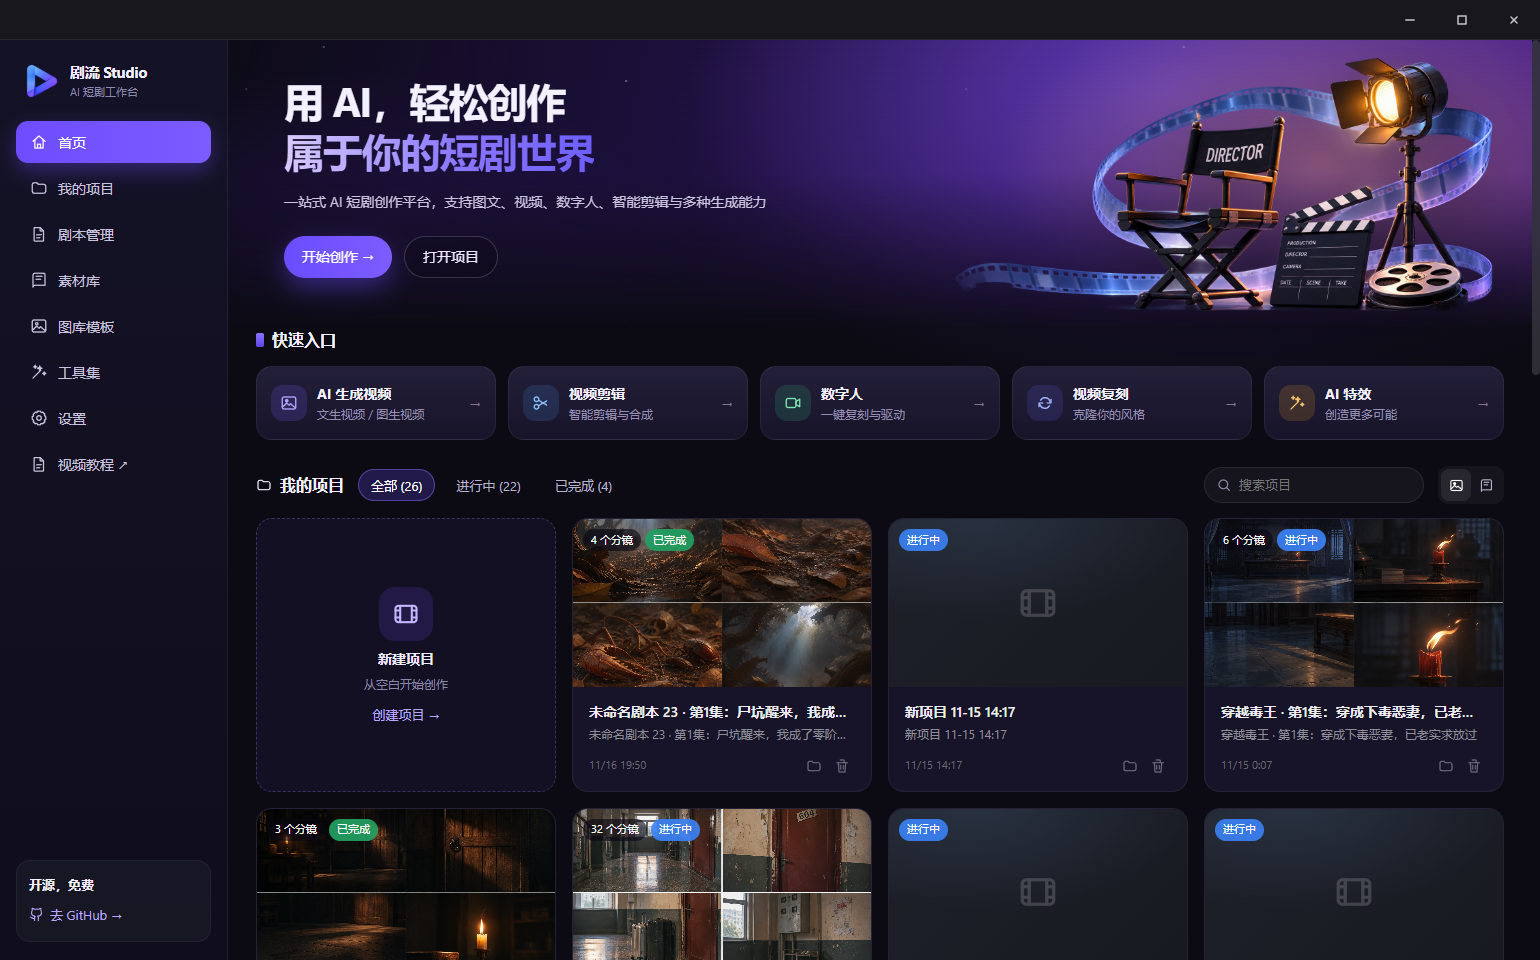
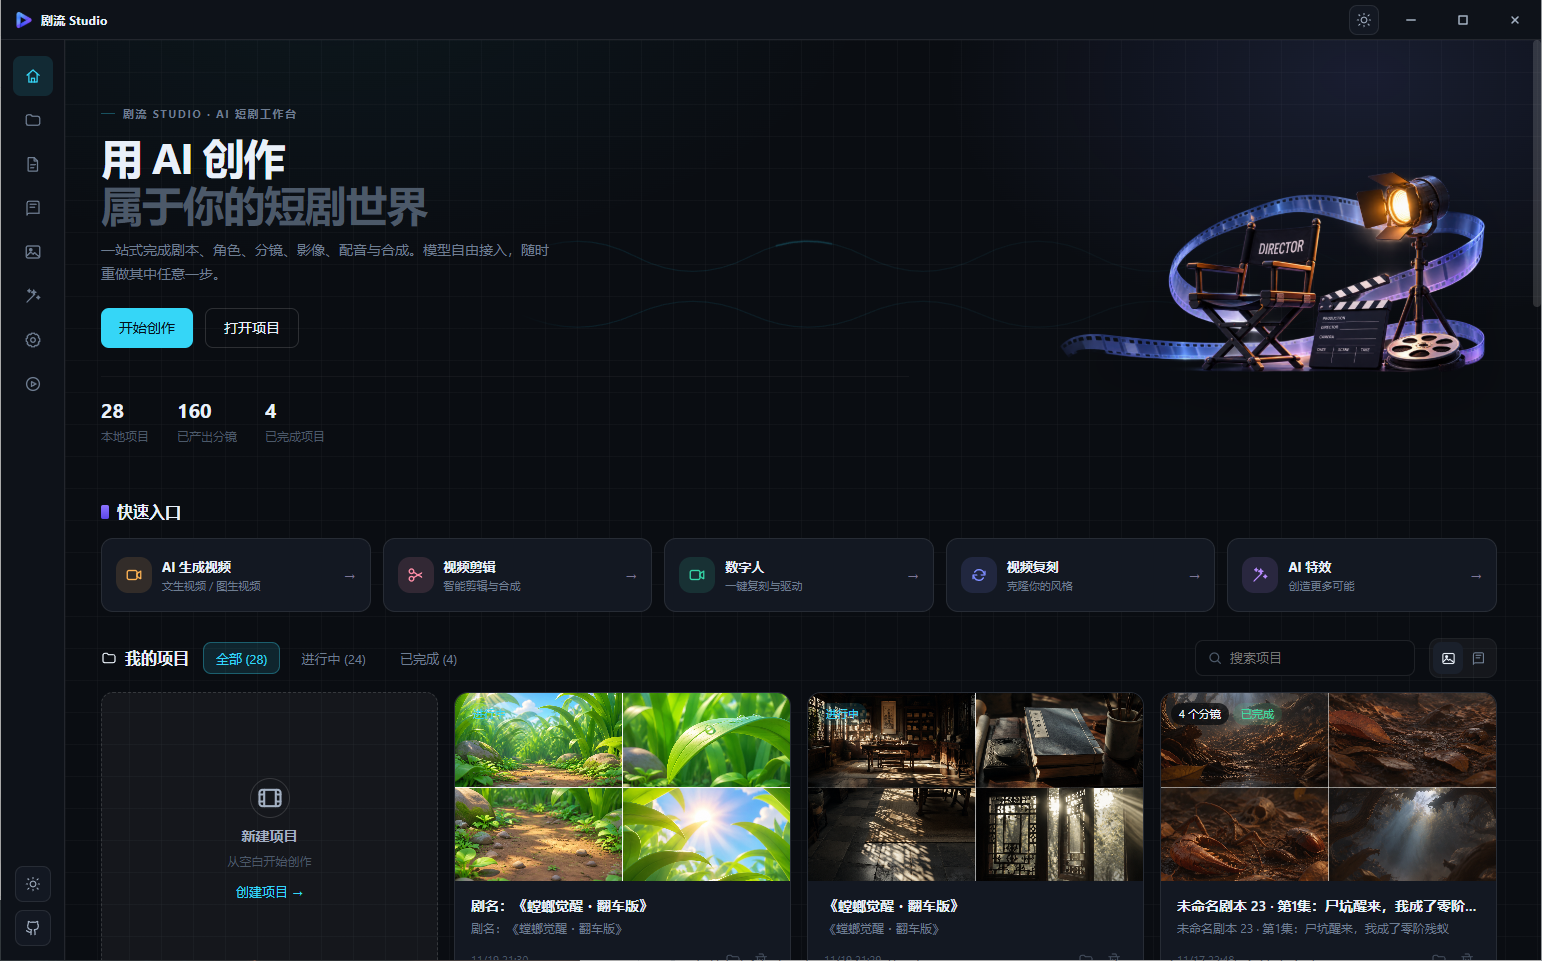
docs: refresh homepage and gallery screenshots

diff --git a/README.md b/README.md
@@ -86,6 +86,8 @@
 
 ### 内置图库模板
 
+![剧流 Studio 图库模板：单人姿势、双人站位、动态动作与角色定妆，支持预览和参考图选用](docs/images/studio-gallery-overview.png)
+
 从首页左侧打开「图库模板」浏览图册；需要给模型用图时，也可以从画布节点的「添加参考图」里直接选用。
 
 - **单人姿势**：跪坐、奔跑、弓步等线稿，用于参考肢体姿态和重心。
